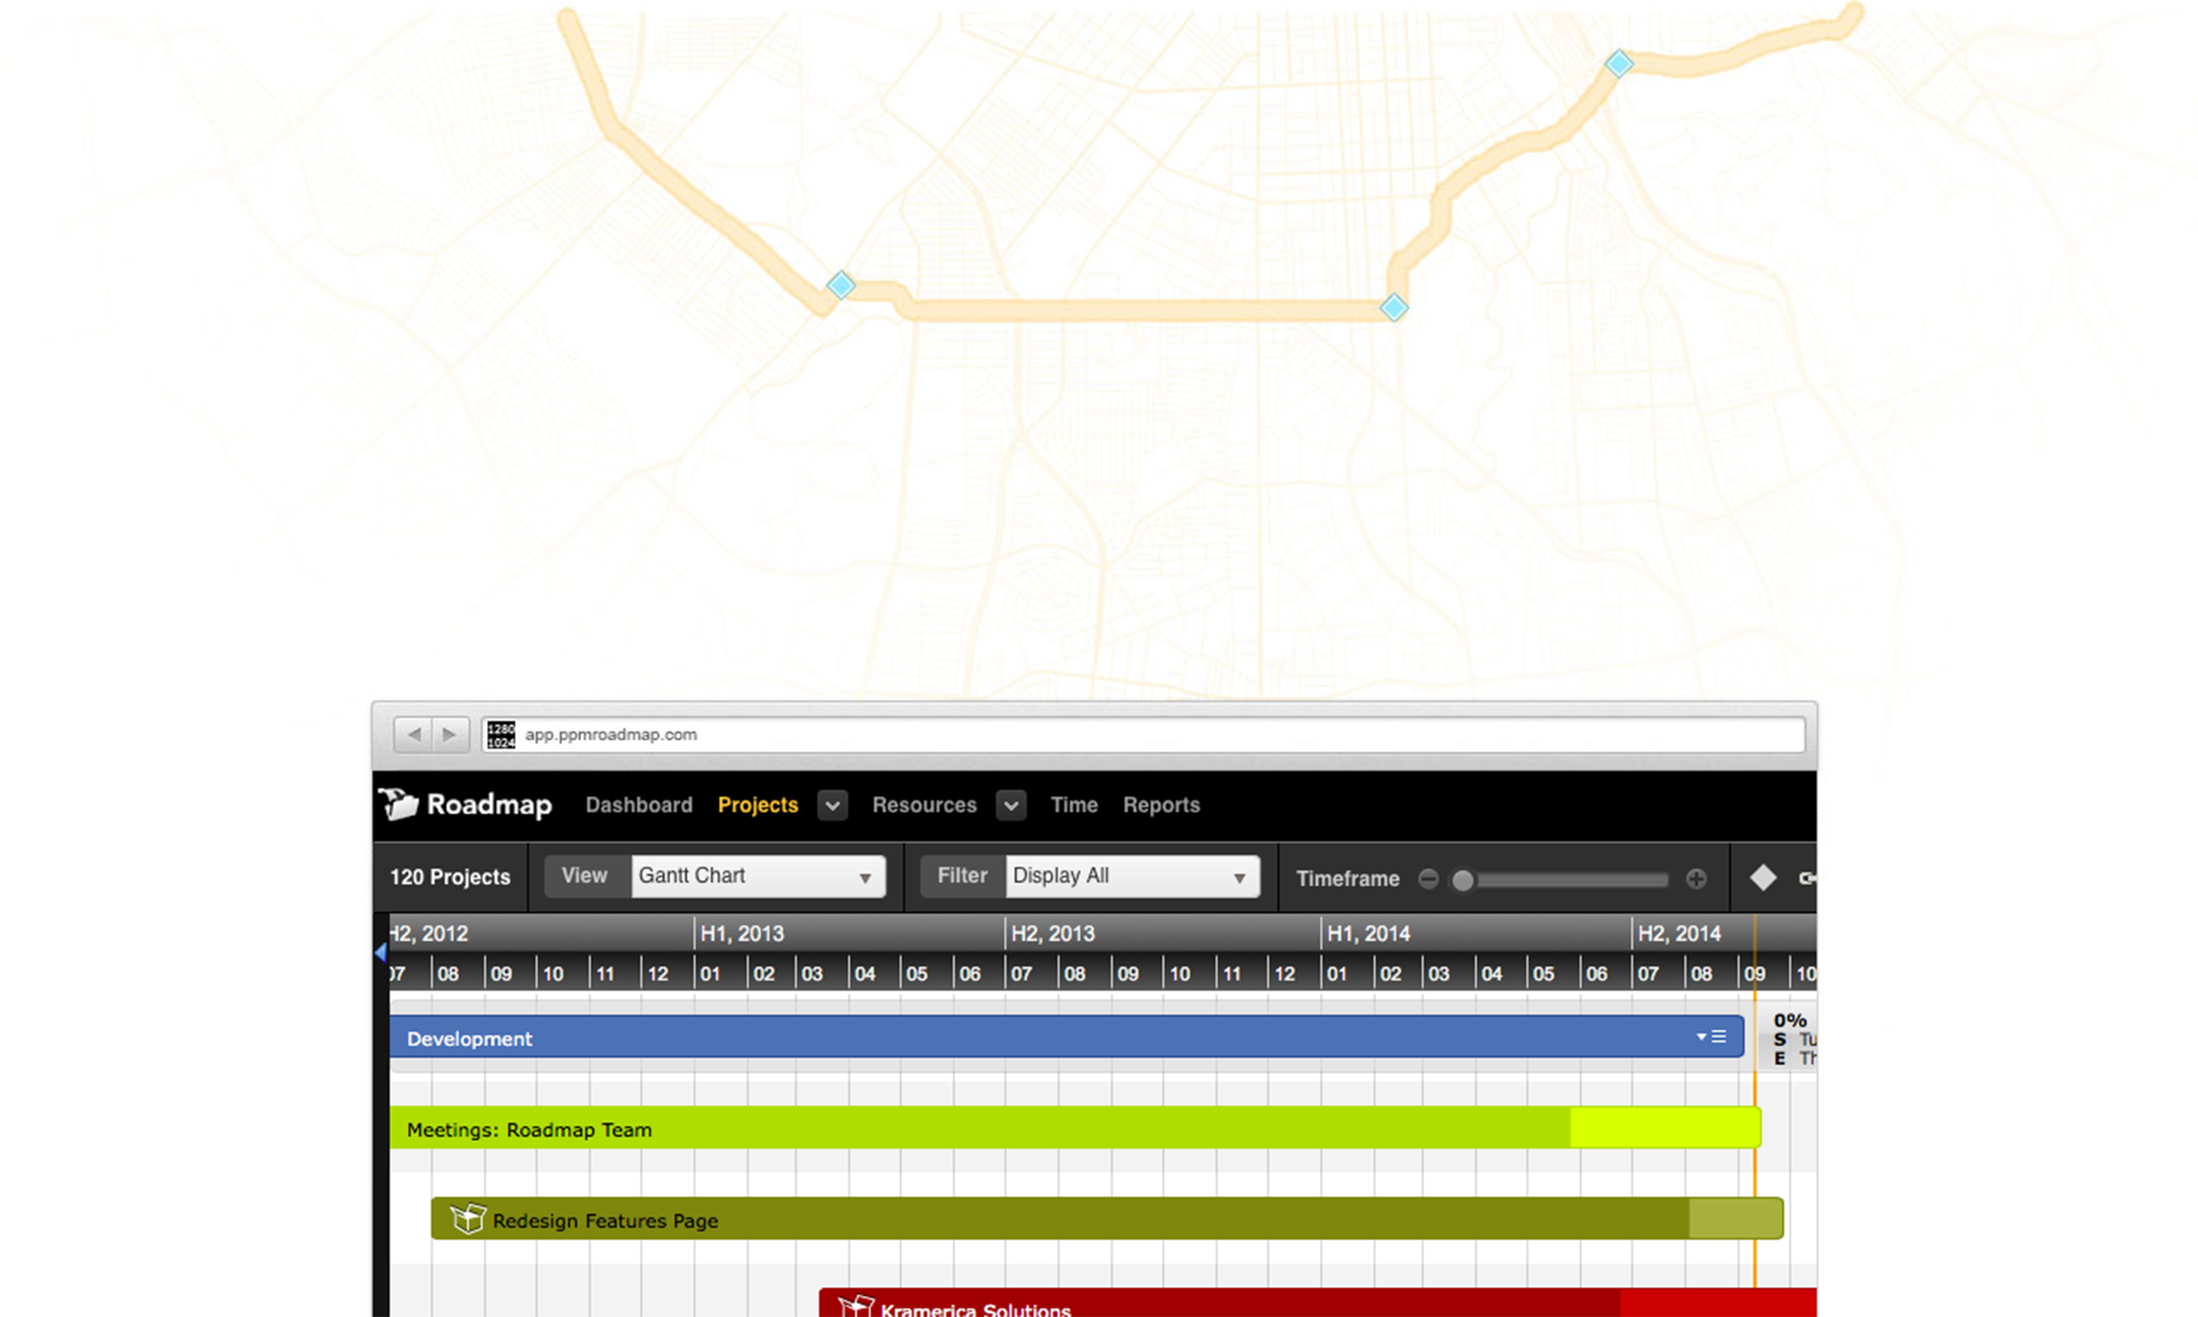
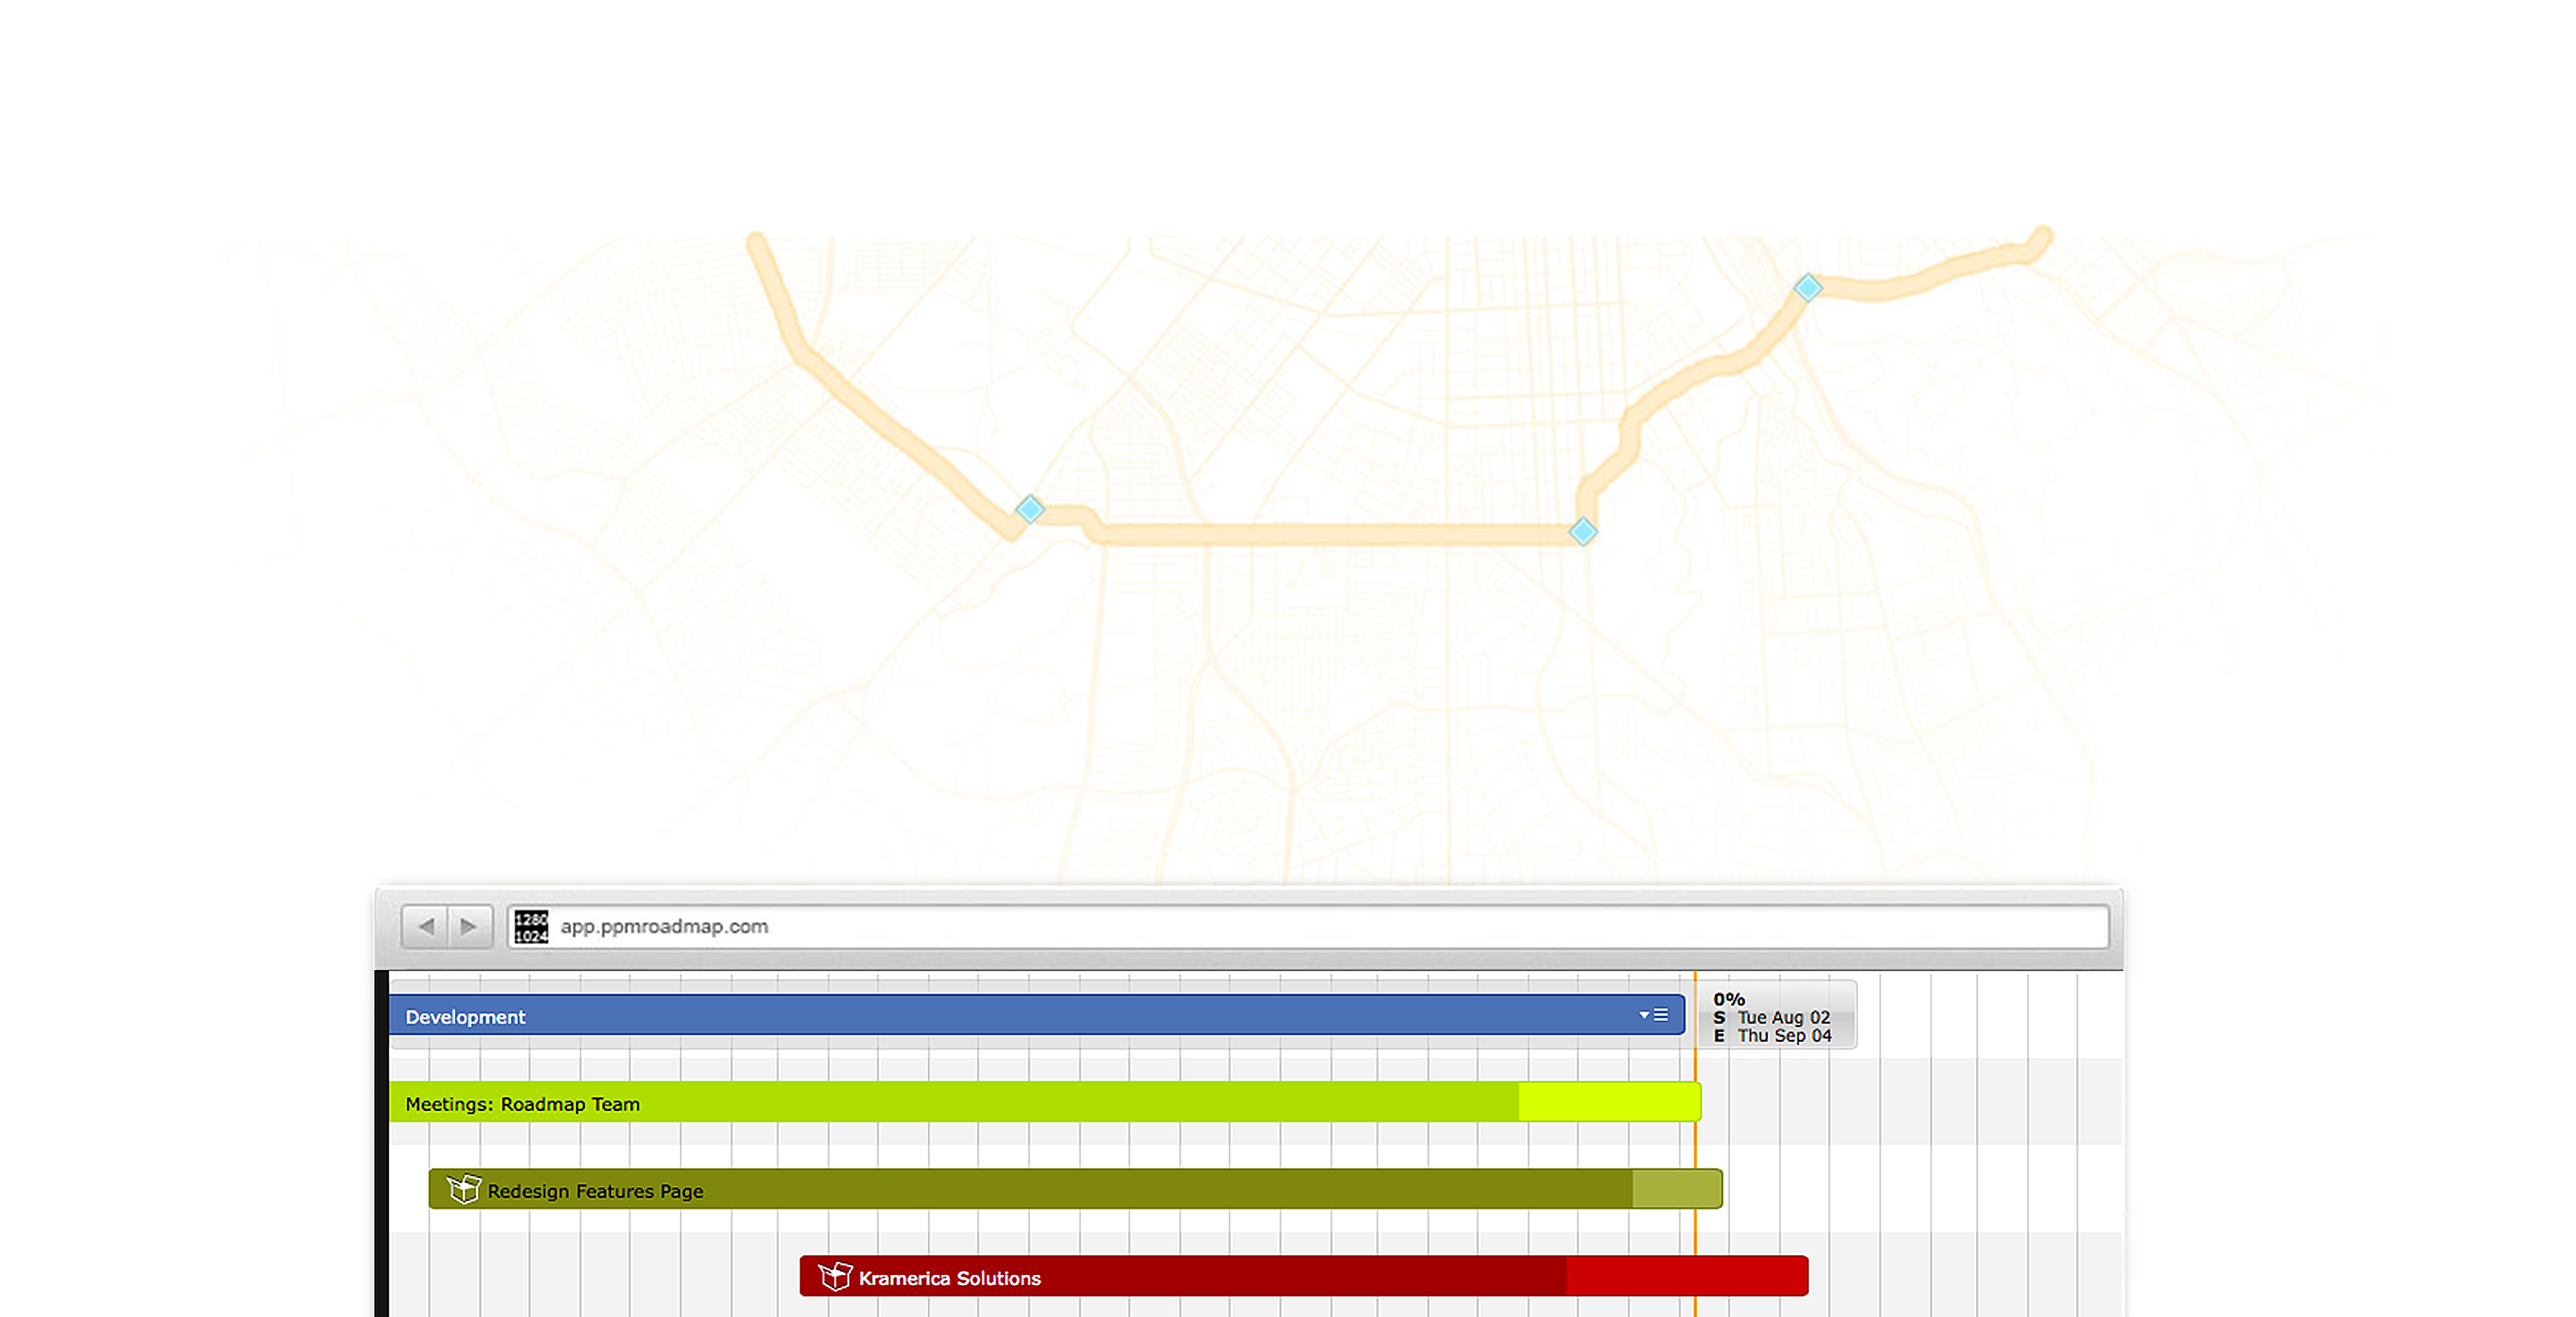
update site

Changed region(s): [[0.125, 0.5209, 0.8438, 1.0], [0.25, 0.0, 0.8438, 0.3677], [0.375, 0.1532, 0.8125, 0.4289]]

diff --git a/app/index.html b/app/index.html
@@ -1,5 +1,9 @@
 <!doctype html>
-<html>
+<!doctype html>
+<!--[if lt IE 7]>      <html class="no-js lt-ie9 lt-ie8 lt-ie7" lang=""> <![endif]-->
+<!--[if IE 7]>         <html class="no-js lt-ie9 lt-ie8" lang=""> <![endif]-->
+<!--[if IE 8]>         <html class="no-js lt-ie9" lang=""> <![endif]-->
+<!--[if gt IE 8]><!--> <html class="no-js" lang=""> <!--<![endif]-->
   <head>
     <meta charset="utf-8">
     <meta http-equiv="X-UA-Compatible" content="IE=edge">
@@ -59,10 +63,7 @@
                   <a href="features.html" title="See Roadmap's Amazing Features">Features</a>
                 </li>
                 <li class="" id="mh-ut-pr">
-                  <a href="pricing.html" title="See Roadmap's High-value Pricing Plans">Pricing Plans</a>
-                </li>
-                <li id="mh-ut-su">
-                  <a href="signup.html" title="Free 30 day Trial">30-day Trial</a>
+                  <a href="pricing.html" title="See Roadmap's High-value Pricing Plans">Plans/Sign Up</a>
                 </li>
                 <li class="_nav-alt" id="mh-ut-si">
                   <a href="https://app.ppmroadmap.com" title="Sign In to your Roadmap Account">Sign In</a>
@@ -88,7 +89,7 @@
           <div class="_ho-att">
             <picture class="_ho-src">
               <!--[if IE 9]><video style="display: none;"><![endif]-->
-              <source srcset="examples/images/large.jpg, examples/images/extralarge.jpg 2x" media="(min-width: 800px)">
+              <source class="_ho-src" srcset="images/hero-gantt.png, images/hero-gantt@2x.png 2x" media="(min-width: 47em)">
               <!--[if IE 9]></video><![endif]-->
               <img class="_ho-src" srcset="images/hero-gantt-mobile.jpg, images/hero-gantt-mobile@2x.jpg 2x" alt="Visualize your projects as gantt charts">
             </picture>
@@ -131,7 +132,7 @@
                   <div class="_md-att">
                     <picture class="_md-src">
                       <!--[if IE 9]><video style="display: none;"><![endif]-->
-                      <source srcset="examples/images/large.jpg, examples/images/extralarge.jpg 2x" media="(min-width: 800px)">
+                      <source class="_md-src" srcset="images/views/roadmap-view-visualize-dashboard.png, images/views/roadmap-view-visualize-dashboard@2x.png 2x" media="(min-width: 40em)">
                       <!--[if IE 9]></video><![endif]-->
                       <img class="_md-src" srcset="images/views/roadmap-view-visualize-dashboard-mobile.png, images/views/roadmap-view-visualize-dashboard-mobile@2x.png 2x" width="238" alt="Visualize your projects as gantt charts">
                     </picture>
@@ -147,7 +148,7 @@
                   <div class="_md-att">
                     <picture class="_md-src">
                       <!--[if IE 9]><video style="display: none;"><![endif]-->
-                      <source srcset="examples/images/large.jpg, examples/images/extralarge.jpg 2x" media="(min-width: 800px)">
+                      <source srcset="images/views/roadmap-view-visualize-gantt.png, images/views/roadmap-view-visualize-gantt@2x.png 2x" media="(min-width: 40em)">
                       <!--[if IE 9]></video><![endif]-->
                       <img class="_md-src" srcset="images/views/roadmap-view-visualize-gantt-mobile.png, images/views/roadmap-view-visualize-gantt-mobile@2x.png 2x" width="238" alt="Visualize your projects as gantt charts">
                     </picture>
@@ -185,7 +186,7 @@
                   <div class="_md-att">
                     <picture class="_md-src">
                       <!--[if IE 9]><video style="display: none;"><![endif]-->
-                      <source srcset="examples/images/large.jpg, examples/images/extralarge.jpg 2x" media="(min-width: 800px)">
+                      <source srcset="images/views/roadmap-view-align-extension.png, images/views/roadmap-view-align-extension@2x.png 2x" media="(min-width: 40em)">
                       <!--[if IE 9]></video><![endif]-->
                       <img class="_md-src" srcset="images/views/roadmap-view-align-extension-mobile.png, images/views/roadmap-view-align-extension-mobile@2x.png 2x" width="238" alt="Visualize your projects as gantt charts">
                     </picture>
@@ -201,7 +202,7 @@
                   <div class="_md-att">
                     <picture class="_md-src">
                       <!--[if IE 9]><video style="display: none;"><![endif]-->
-                      <source srcset="examples/images/large.jpg, examples/images/extralarge.jpg 2x" media="(min-width: 800px)">
+                      <source srcset="images/views/roadmap-view-align-email.png, images/views/roadmap-view-align-email@2x.png 2x" media="(min-width: 40em)">
                       <!--[if IE 9]></video><![endif]-->
                       <img class="_md-src" srcset="images/views/roadmap-view-align-email-mobile.png, images/views/roadmap-view-align-email-mobile@2x.png 2x" width="238" alt="Visualize your projects as gantt charts">
                     </picture>
@@ -239,7 +240,7 @@
                   <div class="_md-att">
                     <picture class="_md-src">
                       <!--[if IE 9]><video style="display: none;"><![endif]-->
-                      <source srcset="examples/images/large.jpg, examples/images/extralarge.jpg 2x" media="(min-width: 800px)">
+                      <source srcset="images/views/roadmap-view-forecast-resource.png, images/views/roadmap-view-forecast-resource@2x.png 2x" media="(min-width: 40em)">
                       <!--[if IE 9]></video><![endif]-->
                       <img class="_md-src" srcset="images/views/roadmap-view-forecast-resource-mobile.png, images/views/roadmap-view-forecast-resource-mobile@2x.png 2x" width="238" alt="Visualize your projects as gantt charts">
                     </picture>
@@ -255,7 +256,7 @@
                   <div class="_md-att">
                     <picture class="_md-src">
                       <!--[if IE 9]><video style="display: none;"><![endif]-->
-                      <source srcset="examples/images/large.jpg, examples/images/extralarge.jpg 2x" media="(min-width: 800px)">
+                      <source srcset="images/views/roadmap-view-forecast-planned_actual.png, images/views/roadmap-view-forecast-planned_actual@2x.png 2x" media="(min-width: 40em)">
                       <!--[if IE 9]></video><![endif]-->
                       <img class="_md-src" srcset="images/views/roadmap-view-forecast-planned_actual-mobile.png, images/views/roadmap-view-forecast-planned_actual-mobile@2x.png 2x" width="238" alt="Visualize your projects as gantt charts">
                     </picture>
@@ -293,7 +294,7 @@
                   <div class="_md-att">
                     <picture class="_md-src">
                       <!--[if IE 9]><video style="display: none;"><![endif]-->
-                      <source srcset="examples/images/large.jpg, examples/images/extralarge.jpg 2x" media="(min-width: 800px)">
+                      <source srcset="images/views/roadmap-view-manage-budget.png, images/views/roadmap-view-manage-budget@2x.png 2x" media="(min-width: 40em)">
                       <!--[if IE 9]></video><![endif]-->
                       <img class="_md-src" srcset="images/views/roadmap-view-manage-budget-mobile.png, images/views/roadmap-view-manage-budget-mobile@2x.png 2x" width="238" alt="Visualize your projects as gantt charts">
                     </picture>
@@ -309,7 +310,7 @@
                   <div class="_md-att">
                     <picture class="_md-src">
                       <!--[if IE 9]><video style="display: none;"><![endif]-->
-                      <source srcset="examples/images/large.jpg, examples/images/extralarge.jpg 2x" media="(min-width: 800px)">
+                      <source srcset="images/views/roadmap-view-manage-effeciency.png, images/views/roadmap-view-manage-effeciency@2x.png 2x" media="(min-width: 40em)">
                       <!--[if IE 9]></video><![endif]-->
                       <img class="_md-src" srcset="images/views/roadmap-view-manage-effeciency.png, images/views/roadmap-view-manage-effeciency@2x.png 2x" width="238" alt="Visualize your projects as gantt charts">
                     </picture>

diff --git a/app/styles/_scratch.scss b/app/styles/_scratch.scss
@@ -312,7 +312,7 @@ body {
   padding: 24px 0;
 
   border-bottom: 6px solid palette(white, green);
-  background-color: rgba(palette(white), .8);
+  background-color: #fff;
 }
 
 
@@ -391,7 +391,7 @@ body {
     position: relative;
 
     height: 60%;
-    min-height: 560px;
+    min-height: 600px;
   }
   .mh-bn,
   ._ho-tx {
@@ -401,6 +401,10 @@ body {
 
   .mh-bn {
     height: 175px;
+
+    @include breakpoint($bp-md) {
+      height: auto;
+    }
   }
 }
 
@@ -412,6 +416,7 @@ body {
     left: 0;
     z-index: $z-base;
 
+    width: 100%;
     height: 100%;
   }
   ._ho-tx {
@@ -427,10 +432,18 @@ body {
     margin-bottom: 0;
 
     font-size: $fs-mega;
+
+    @include breakpoint($bp-md) {
+      font-size: $fs-tera;
+    }
   }
   ._ho-cp {
-    @extend %u-vh;
+    display: none;
     margin-bottom: $vs;
+
+    @include breakpoint($bp-md) {
+      display: block;
+    }
 
     font-size: $fs-kilo;
     p {
@@ -441,6 +454,10 @@ body {
     font-size: $fs-centi;
     color: palette(black);
     background-color: palette(red, froly);
+
+    @include breakpoint($bp-md) {
+      font-size: $fs-deca;
+    }
     &:hover,
     &:focus {
       color: palette(white, mercury);
@@ -450,12 +467,12 @@ body {
   ._ho-att,
   ._ho-src {
     position: absolute;
-    top: 0;
+    bottom: 0;
     left: 0;
     z-index: $z-base;
 
     width: 100%;
-    height: 100%;
+    height: auto;
   }
 }
 
@@ -635,6 +652,10 @@ body {
     position: relative;
 
     border: 9px solid ;
+  }
+  ._md-src {
+    display: block;
+    width: 100%;
   }
   ._md-ct {
     & > :last-child {

diff --git a/app/styles/_vars.scss b/app/styles/_vars.scss
@@ -71,7 +71,8 @@ $l-lg: (
   container: 76em
 );
 
+$breakpoint-no-query-fallbacks: true;
 // Breakpoints
 $bp-md: 40em;
-$bp-lg: 47em;
+$bp-lg: 47em, 'no-query' '.lt-ie9';
 $bp-max: 76em;
